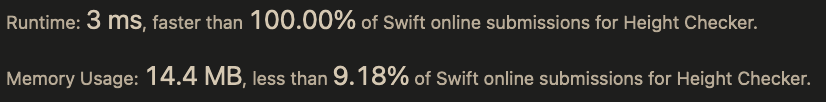
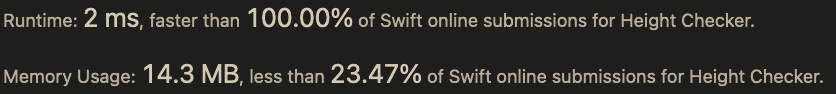
1051

Changed region(s): [[0.0, 0.6383, 0.9988, 0.9149], [0.0, 0.0638, 0.9383, 0.3191]]

diff --git a/LeetCode.playground/Pages/1051. Height Checker.xcplaygroundpage/Contents.swift b/LeetCode.playground/Pages/1051. Height Checker.xcplaygroundpage/Contents.swift
@@ -6,14 +6,11 @@
  */
 class Solution {
     func heightChecker(_ heights: [Int]) -> Int {
-        var count = [Int: Int]()
+        var count = Array(repeating: 0, count: 101)
         var ans = 0
         
-        for i in 0..<101 {
-            count[i, default: 0] = 0
-        }
         for height in heights {
-            count[height]! += 1
+            count[height] += 1
         }
         
         var i = 1, j = 0
@@ -26,7 +23,7 @@ class Solution {
                     ans += 1
                 }
                 j += 1
-                count[i]! -= 1
+                count[i] -= 1
             }
         }
         
